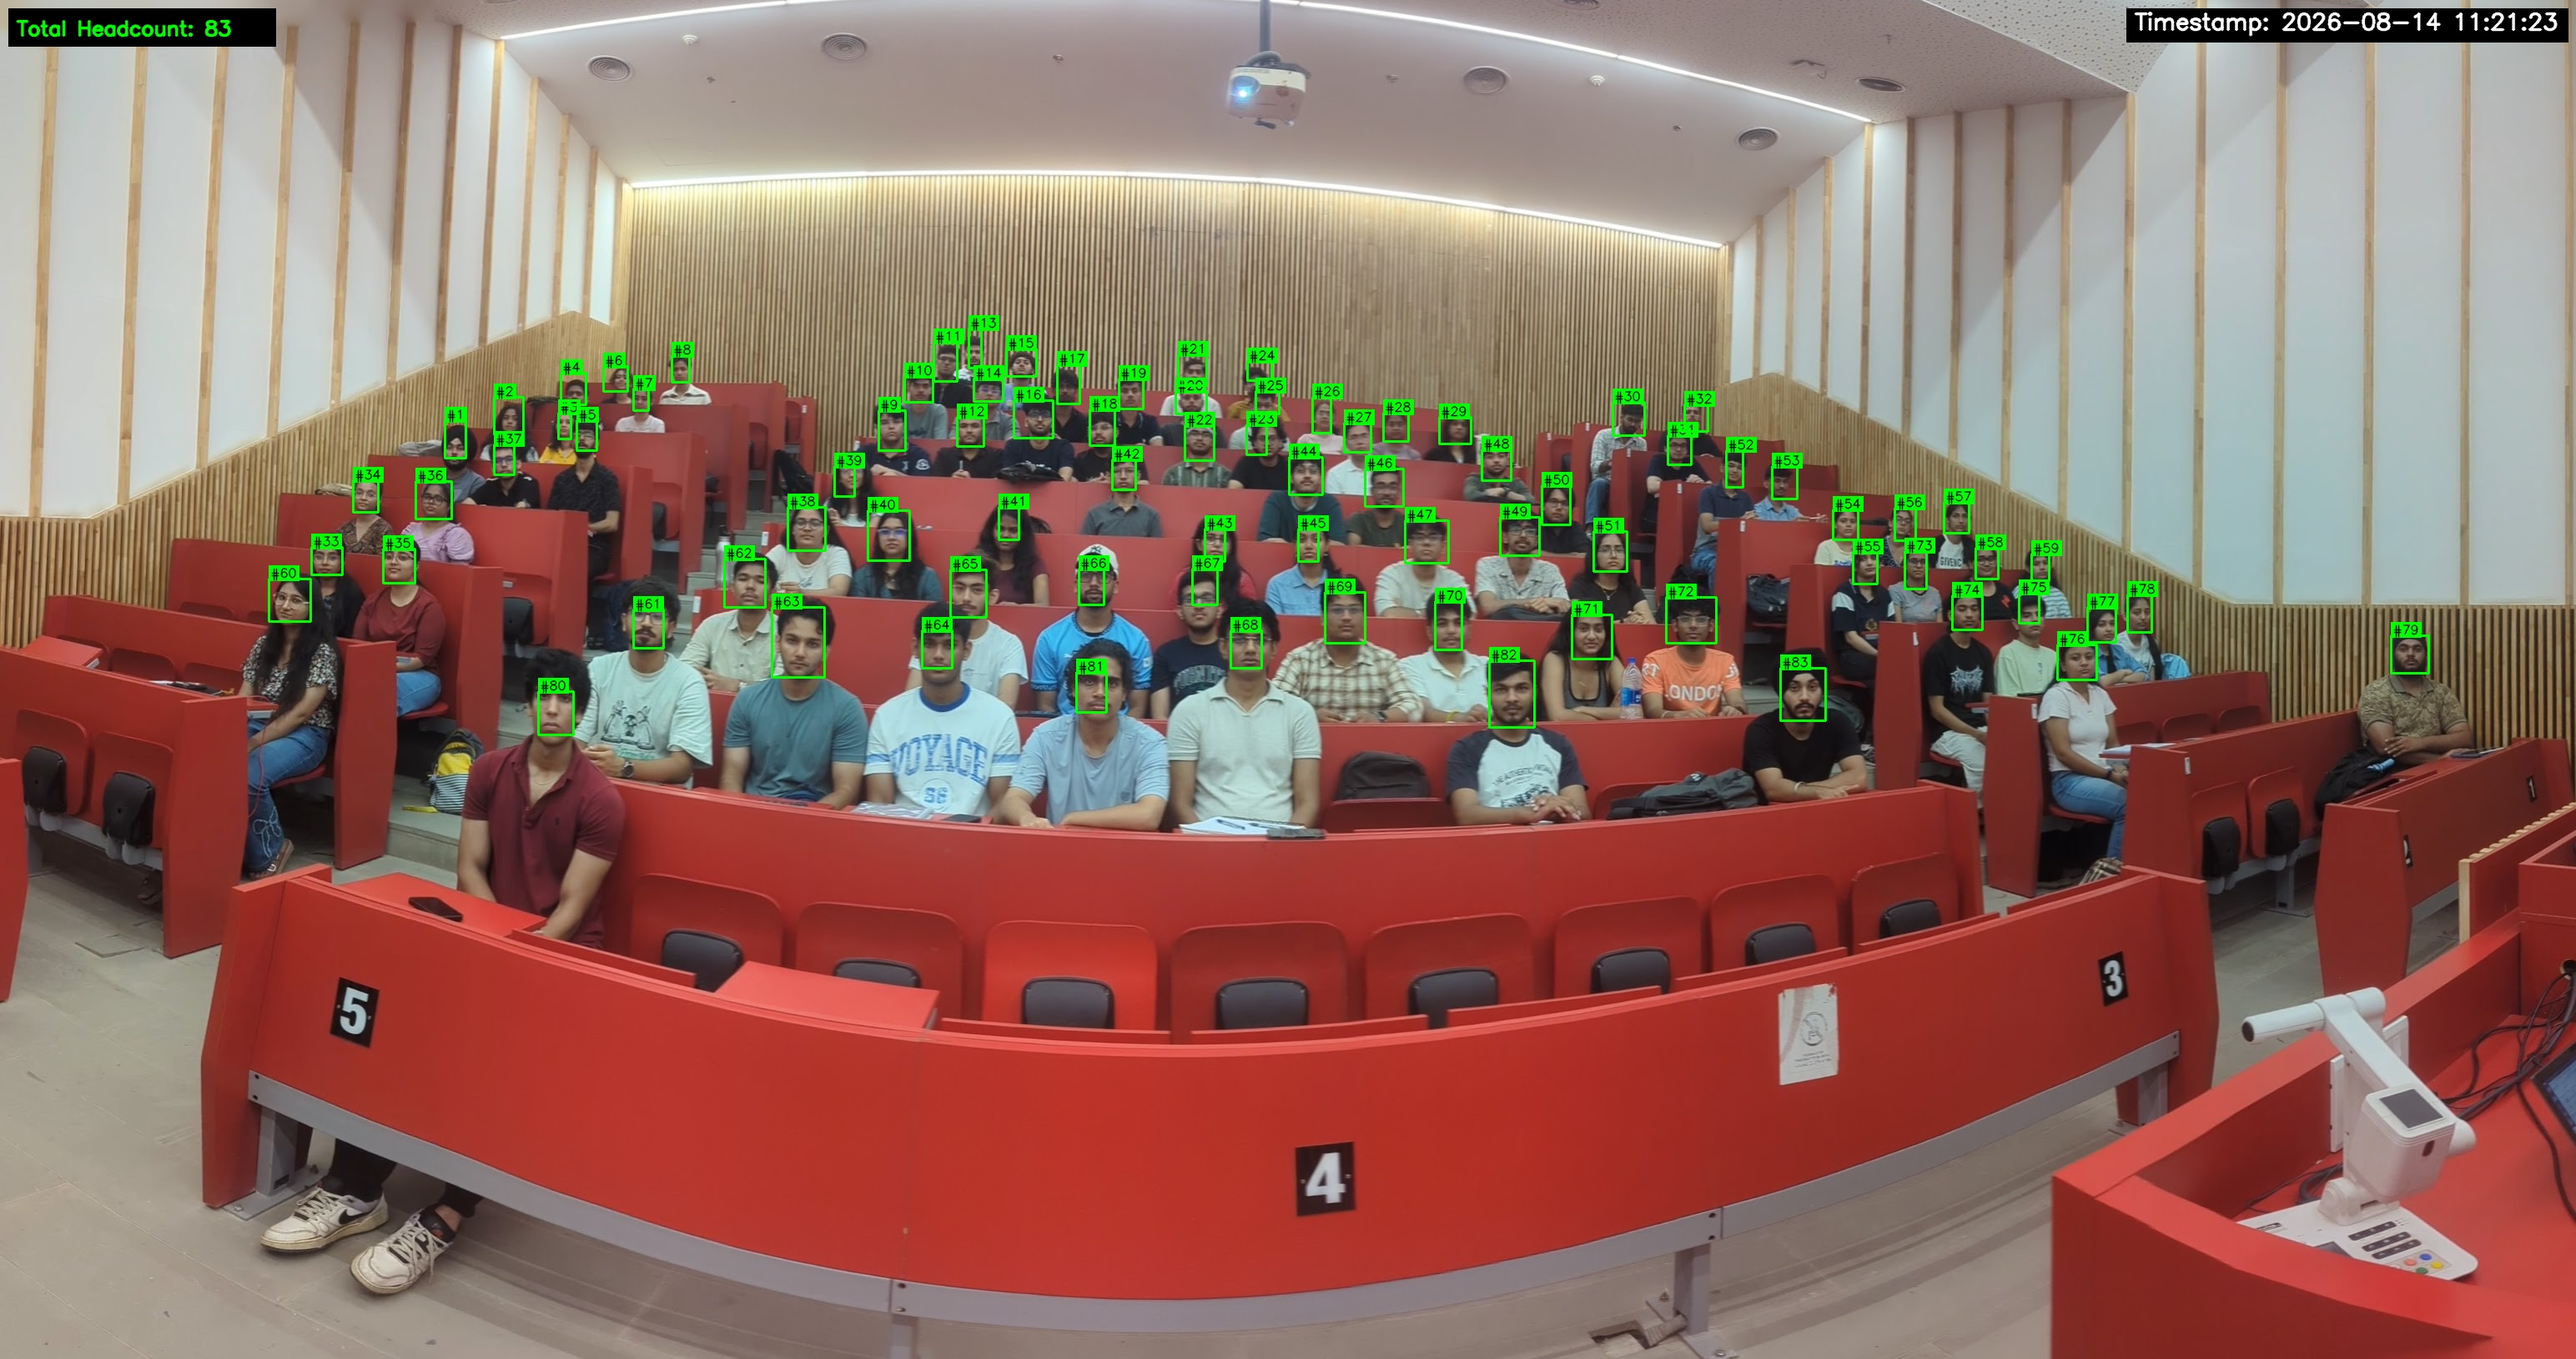
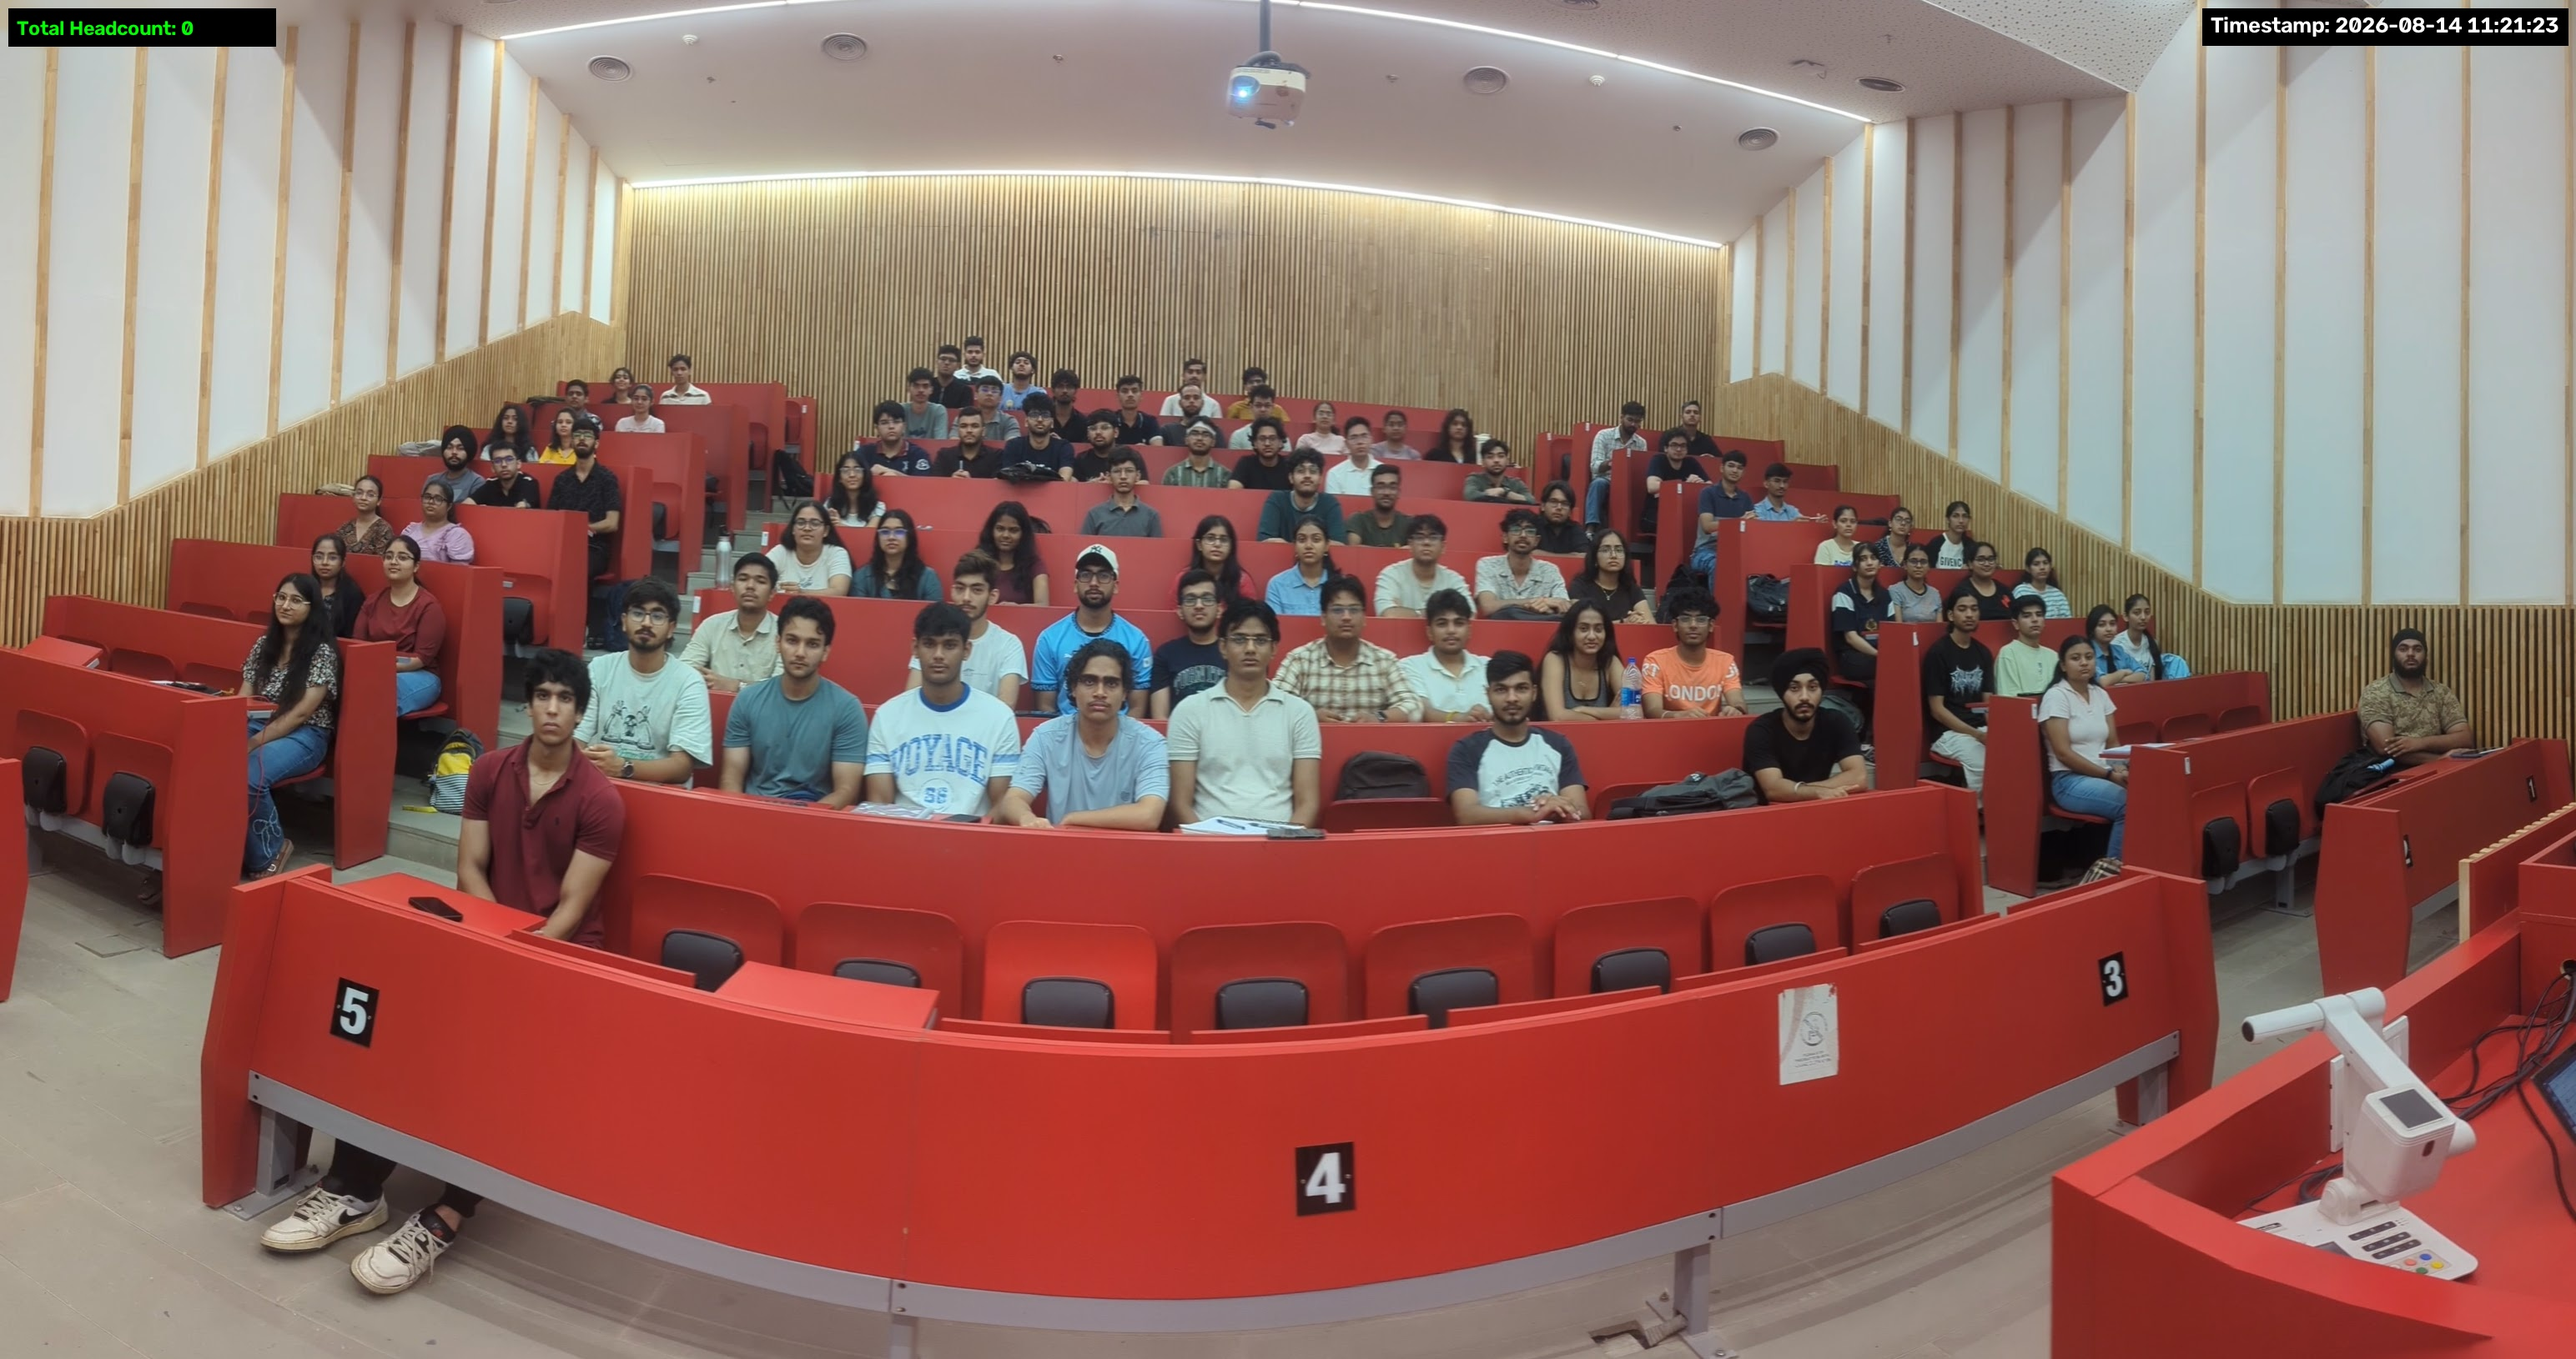
modified:   ../Dataset/Annotated/test.json 	modified:   ../Dataset/Preview/test.jpg 	modified:   ../README.md

diff --git a/attendance/README.md b/attendance/README.md
@@ -52,6 +52,16 @@ Create Annotations for the attached picture in yolo annotations in json. In the 
 * Move to `Tools` folder `$ cd Tools/`
 * Execute `python3 driver.py -f 31_07_2026_2C7`
 * Run `python visualizer.py -f <filename>`
+	- Resolve dependencies if there is any issue related to that.
+	- ```
+	sudo apt install pipx 
+	sudo apt install python3-tk
+	pipx install uv
+	uv pip install opencv-python shapely --system
+	
+	pip
+
+	  ```
 * The tool shortcuts are as follows.
 	- Save annotations by pressing `s`
 	- Quit without saving by pressing `q` or ESC
